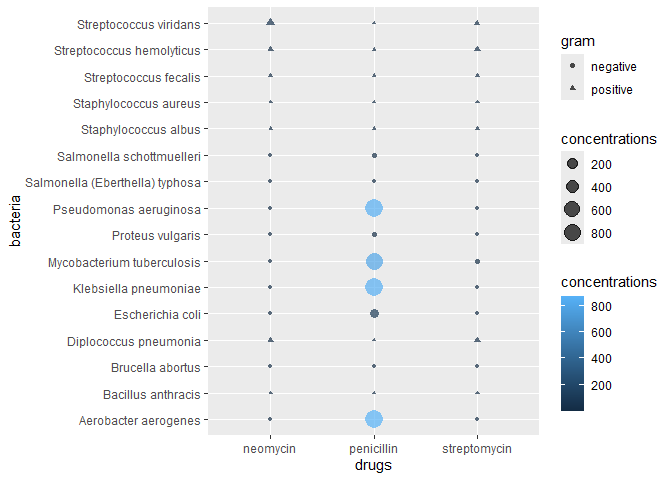
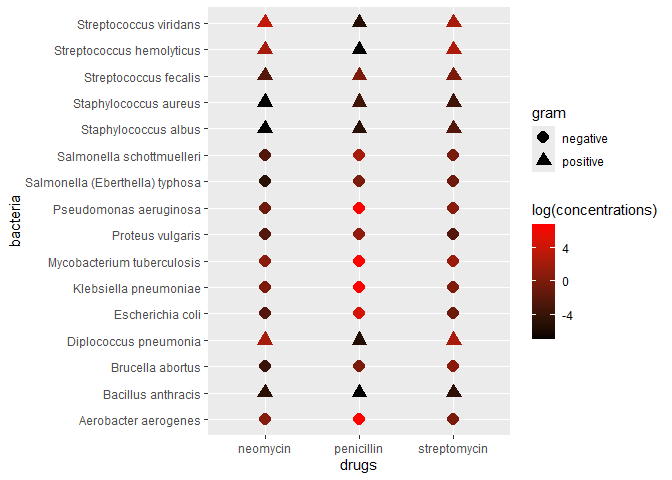
Assignment 5 Resubmission

diff --git a/challenges/c05-antibiotics-assignment.md b/challenges/c05-antibiotics-assignment.md
@@ -199,12 +199,12 @@ df_antibiotics %>%
     aes(
       x = drugs,
       y = bacteria,
-      size = concentrations,
-      color = concentrations,
+      color = log(concentrations),
       shape = gram
     )
   ) +
-  geom_point(alpha = .7)
+  geom_point(size = 4) +
+  scale_color_gradient(low = "Black", high = "Red") 
 ```
 
 ![](c05-antibiotics-assignment_files/figure-gfm/q1.2-1.png)<!-- -->
@@ -234,7 +234,7 @@ df_antibiotics %>%
     aes(
       x = bacteria,
       y = concentrations,
-      color = satisfactory
+      fill = satisfactory
     )
   ) +
   geom_col() +
@@ -265,13 +265,18 @@ df_antibiotics %>%
   ggplot(
     aes(
       x = concentrations,
-      y = gram,
-      color = bacteria
+      fill = gram,
+      y = bacteria
     )
   ) + 
+  theme(
+    axis.text.x = element_text(angle = 90, hjust = 1),
+    plot.title = element_text(hjust = 0.5)
+    ) +
   geom_col(position = position_dodge()) +
   coord_flip() +
-  scale_x_log10() 
+  scale_x_log10() +
+  labs(title = "Penicillin Tests")
 ```
 
 ![](c05-antibiotics-assignment_files/figure-gfm/q1.4-1.png)<!-- -->
@@ -287,13 +292,18 @@ df_antibiotics %>%
   ggplot(
     aes(
       x = concentrations,
-      y = gram,
-      color = bacteria
+      fill = gram,
+      y = bacteria
     )
   ) + 
+  theme(
+    axis.text.x = element_text(angle = 90, hjust = 1),
+    plot.title = element_text(hjust = 0.5)
+  ) +
   geom_col(position = position_dodge()) +
   coord_flip() +
-  scale_x_log10() 
+  scale_x_log10() + 
+  labs(title = "Streptomycin Tests")
 ```
 
 ![](c05-antibiotics-assignment_files/figure-gfm/q1.4-2.png)<!-- -->
@@ -309,13 +319,18 @@ df_antibiotics %>%
   ggplot(
     aes(
       x = concentrations,
-      y = gram,
-      color = bacteria
+      fill = gram,
+      y = bacteria
     )
   ) + 
+  theme(
+    axis.text.x = element_text(angle = 90, hjust = 1),
+    plot.title = element_text(hjust = 0.5)
+  ) +
   geom_col(position = position_dodge()) +
   coord_flip() +
-  scale_x_log10() 
+  scale_x_log10() +
+  labs(title = "Neomycin Tests")
 ```
 
 ![](c05-antibiotics-assignment_files/figure-gfm/q1.4-3.png)<!-- -->
@@ -341,7 +356,7 @@ df_antibiotics %>%
     aes(
       x = bacteria,
       y = concentrations,
-      color = drugs
+      fill = drugs
     )
   ) +
   geom_col(position = position_dodge()) +
